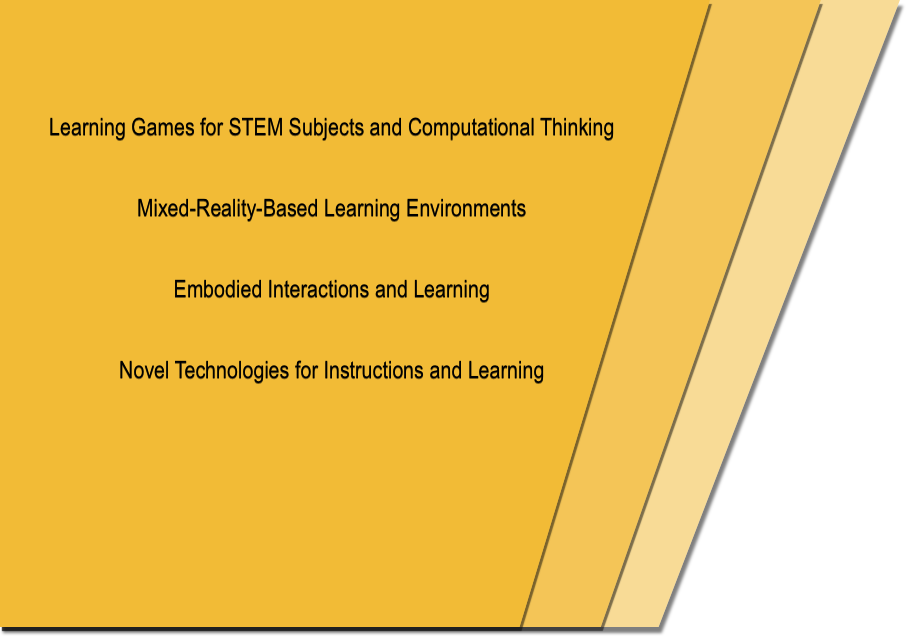
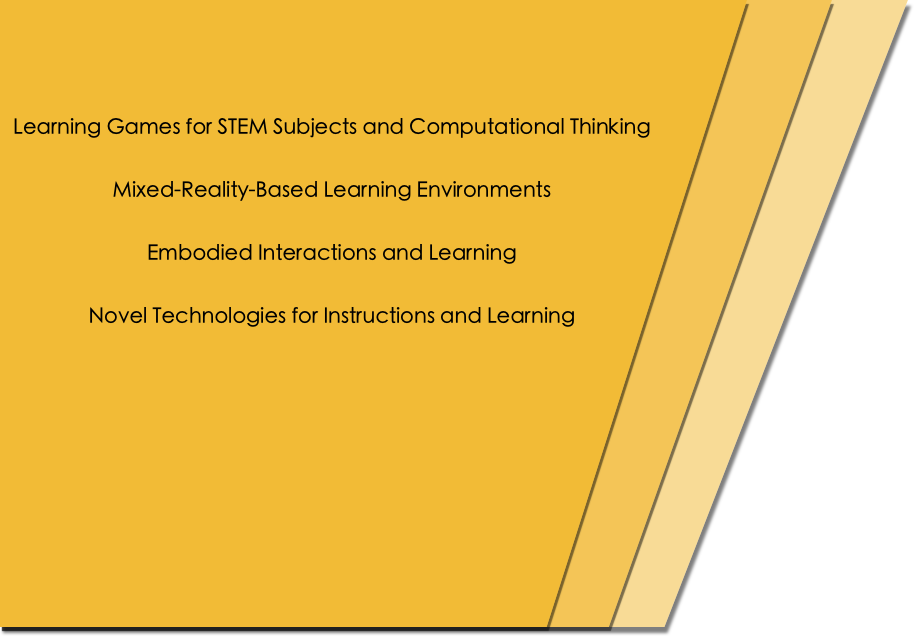
update

diff --git a/src/App.js b/src/App.js
@@ -7,13 +7,14 @@ import NavDropdown from 'react-bootstrap/NavDropdown';
 import Col from 'react-bootstrap/Col';
 import Row from 'react-bootstrap/Row';
 import Carousel from 'react-bootstrap/Carousel';
+import Card from 'react-bootstrap/Card';
 
 
 function Entrance(){
   return(
     <>
     <div id='main-background'>
-      <div id='logo'></div>
+      <div id='logo'><h2><img src={require('./img/logo.png')} alt='logo'/>Technology to Enhance Learning Lab</h2></div>
       <Link type='button' id='enter' className='btn btn-dark' to='/home'> Expore </Link>
     </div>
     <img id='img' src={require('./img/main_background.png')} alt='background' />
@@ -161,6 +162,32 @@ export function Home(){
     </Carousel>
     </Col>
     </Row>
+    </div>
+    <div className='container-fluid' id='home-content'>
+    <Row xs={1} md={1}  id='desc-img' className='justify-content-md-center'>
+      <Col className='m-5 justify-content-md-center'>
+       <h2> <img src={require('./img/logo.png')} alt='name'/>Technology to Enhance Learning Lab</h2>
+      </Col>
+    </Row>
+    <Row xs={1} md={1} >
+      <Col className='m-5 shadow p-5' id='desc'>
+      <h2>About Us</h2>
+      <hr/>
+      <p><b>We are a research lab afiliated to the <a href='https://education.missouri.edu/information-science-learning-technologies/' target='_blank' rel="noreferrer" >School of Information Science and Learning Technologies</a> of the <a href='https://missouri.edu/' target='_blank' rel="noreferrer">University of Missouri – Columbia</a> focusing on…</b></p>
+      <br/>
+      <p><img src={require('./img/logo.png')} alt='logo'/><b>Mixed-Reality-Based Learning Environments</b></p>
+      <p><img src={require('./img/logo.png')} alt='logo'/><b>Embodied Interactions and Learning</b></p>
+      <p><img src={require('./img/logo.png')} alt='logo'/><b>Learning Games for STEM Subjects and Computational Thinking</b></p>
+      <p><img src={require('./img/logo.png')} alt='logo'/><b>Novel Technologies for Instructions and Learning</b></p>
+      </Col>
+    </Row>
+    <Row xs={1} md={1} id='about'>
+      <Col className='m-5 shadow p-5'>
+        <h2>Reserch Projects</h2>
+        <hr/>
+      </Col>
+    </Row>
+
     </div>
     <Footer />
     </>

diff --git a/src/App.css b/src/App.css
@@ -24,9 +24,7 @@
 
 
 #logo {
-  background-image:url("./img/name.png");
-  background-repeat: no-repeat;
-  background-size: 65%,65%;
+  font-family: 'Heiti TC';
   width: 70%;
   height: 30%;
   margin-left: 10%;
@@ -143,12 +141,45 @@
   height: 30rem;
   overflow: visible;
 }
-#home-car{
 
-}
 #car-body{
   z-index: -2;
 }
 .project-img{
   height: 30rem;
+}
+#desc-img{
+  height: 10rem;
+  text-align: center;
+  font-family:'Heiti TC';
+}
+
+#desc-img img{
+  height: 7rem;
+  margin-right: 2rem;
+}
+#home-content{
+  
+}
+#desc{
+  background-image: url('./img/small-decor.png');
+  background-repeat: no-repeat;
+  background-size: contain;
+  background-position: right;
+  font-family:'Heiti TC';
+}
+
+#desc a{
+  text-decoration: none;
+}
+#desc img{
+  width: 3.4rem;
+  margin-right: 1rem;
+}
+
+
+#about{
+    font-family:'Heiti TC';
+
+    
 }
